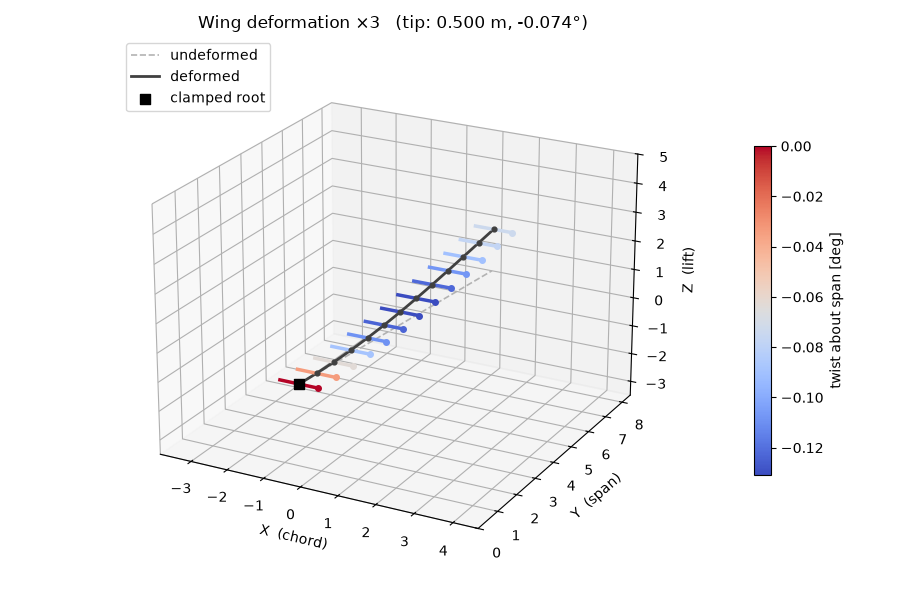
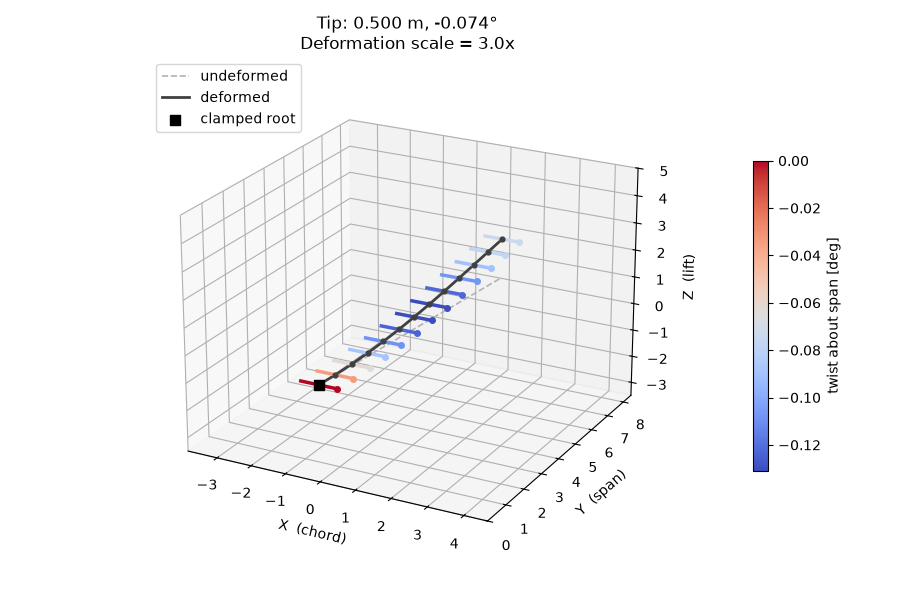
minor fixes

Changed region(s): [[0.1247, 0.0, 0.7795, 0.9168], [0.8107, 0.2139, 0.9354, 0.8251], [0.5612, 0.8862, 0.5924, 0.9168]]

diff --git a/wingbox/plot.py b/wingbox/plot.py
@@ -68,7 +68,7 @@ def plot_deformation(
 
     Parameters
     ----------
-    coords : (n_nodes, 3) undeformed node positions (station shear centres).
+    coords : (n_nodes, 3) undeformed node positions (station elastic centres).
     sol : the :class:`~wingbox.assemble.Solution` to visualise.
     scale : magnification applied to *both* the translational deflection and
         the section twist (they share the same scale).
@@ -124,8 +124,8 @@ def plot_deformation(
     ax.set_ylabel("Y  (span)")
     ax.set_zlabel("Z  (lift)")
     ax.set_title(
-        f"Wing deformation ×{scale:g}   "
-        f"(tip: {deformed[-1, 2]/scale:.3f} m, {twist_deg[-1]:+.3f}°)"
+        f"Tip: {deformed[-1, 2]/scale:.3f} m, {twist_deg[-1]:+.3f}°\n"
+        f"Deformation scale = {scale:.1f}x"
     )
     ax.legend(loc="upper left")
     ax.view_init(elev=22, azim=-62)